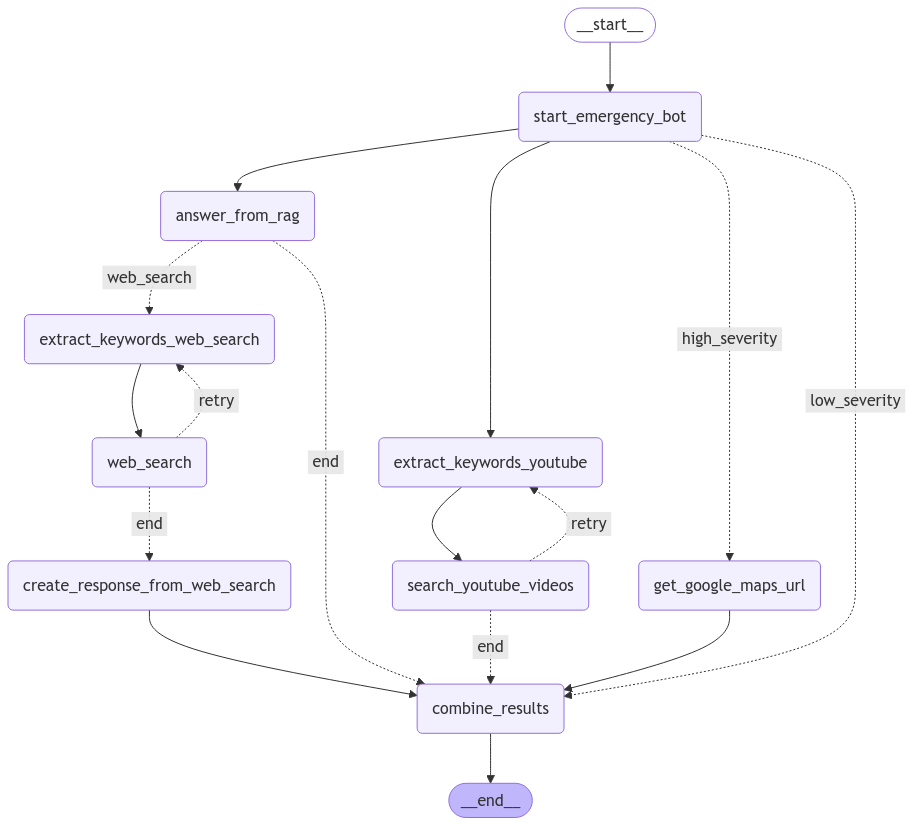
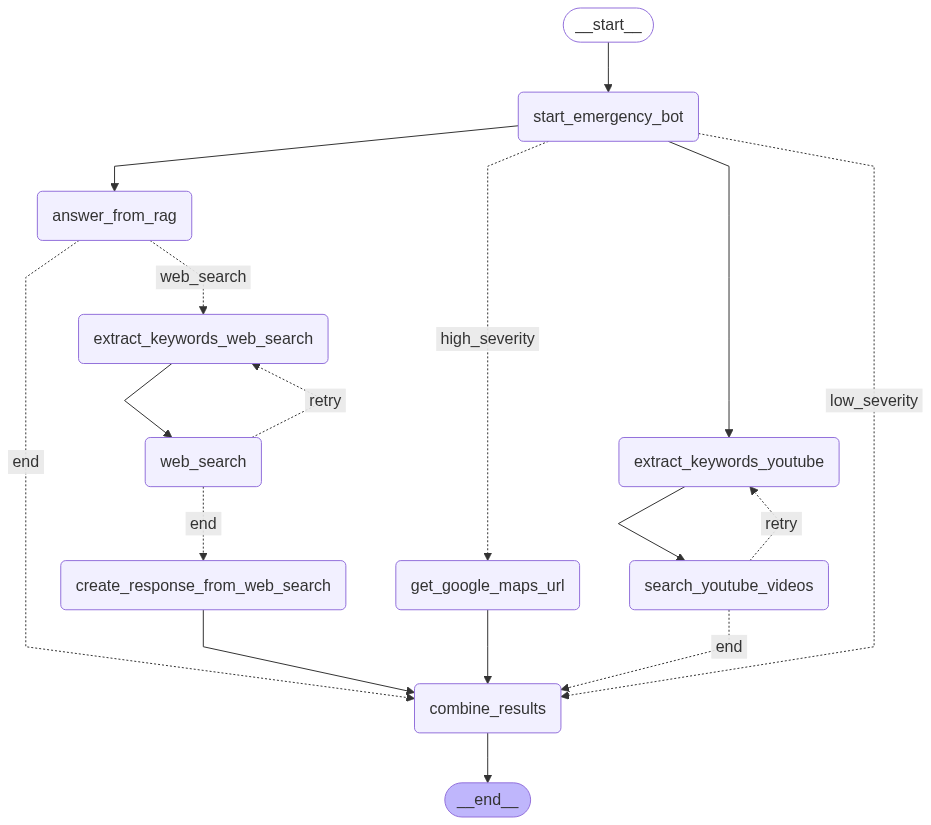
Improv: Location fix

diff --git a/app.py b/app.py
@@ -29,21 +29,6 @@ if 'session_id' not in st.session_state:
 else:
     session_id = st.session_state.session_id
 
-
-if st.sidebar.checkbox("Use my current location", value=False):
-    with st.spinner("Searching for location..."):
-        user_location_info = None
-        while user_location_info is None:
-            user_location_info = get_geolocation()
-            if user_location_info is None:
-                time.sleep(0.5)
-    user_location_info = user_location_info.get('coords', None)
-    user_location = (user_location_info['latitude'], user_location_info['longitude'])
-else:
-    user_location = (None, None)
-
-language, detailed_location, country = get_language(user_location)
-
 # Initialize the LLM with the Google API key from secrets
 llm = init_LLM(API_KEY=st.secrets["GROQ"]["GROQ_API_KEY"])
 YOUTUBE_API_KEY = st.secrets["YOUTUBE"]["YOUTUBE_API_KEY"]
@@ -88,6 +73,35 @@ emergency_agent = load_emergency_agent()
 
 # Main function
 def main():
+    # Initialize location in session state if not exists
+    if 'location_requested' not in st.session_state:
+        st.session_state.location_requested = False
+        st.session_state.user_location = (None, None)
+    
+    # Handle location checkbox
+    location_checkbox = st.sidebar.checkbox("Use my current location", value=st.session_state.location_requested)
+    
+    # Only request location if checkbox is checked and we haven't requested it yet
+    if location_checkbox and not st.session_state.location_requested:
+        with st.spinner("Searching for location..."):
+            user_location_info = get_geolocation(key="user_location_request")
+            if user_location_info and user_location_info.get('coords'):
+                user_location_info = user_location_info.get('coords', None)
+                st.session_state.user_location = (user_location_info['latitude'], user_location_info['longitude'])
+                st.session_state.location_requested = True
+            else:
+                st.warning("Could not get your location. Using default location.")
+                st.session_state.user_location = (None, None)
+                st.session_state.location_requested = True
+    elif not location_checkbox:
+        # Reset location if checkbox is unchecked
+        st.session_state.location_requested = False
+        st.session_state.user_location = (None, None)
+    
+    user_location = st.session_state.user_location
+
+    language, detailed_location, country = get_language(user_location)
+
     detailed_location_new = "Unknown" if detailed_location is None else detailed_location
     st.sidebar.markdown(f"**Location details:** {detailed_location_new}" if language != "it" else f"**Dettagli posizione:** {detailed_location_new}")
     

diff --git a/src/emergency_utils.py b/src/emergency_utils.py
@@ -20,9 +20,10 @@ from jinja2 import Template
 from PIL import Image
 from langchain_community.document_loaders import PyPDFLoader
 from langchain_openai import OpenAIEmbeddings
-from langchain.vectorstores import FAISS
+from langchain_community.vectorstores import FAISS
 #from langchain.embeddings import OpenAIEmbeddings
-from langchain.retrievers import BM25Retriever, EnsembleRetriever
+from langchain_community.retrievers import BM25Retriever
+from langchain.retrievers import EnsembleRetriever
 from langchain.schema import Document
 import io
 

diff --git a/src/triage_utils.py b/src/triage_utils.py
@@ -7,8 +7,9 @@ import os
 import streamlit as st
 from langchain_community.document_loaders import PyPDFLoader
 from langchain_openai import OpenAIEmbeddings
-from langchain.vectorstores import FAISS
-from langchain.retrievers import BM25Retriever, EnsembleRetriever
+from langchain_community.vectorstores import FAISS
+from langchain_community.retrievers import BM25Retriever
+from langchain.retrievers import EnsembleRetriever
 from concurrent.futures import ThreadPoolExecutor
 from langchain.schema import Document
 import re
